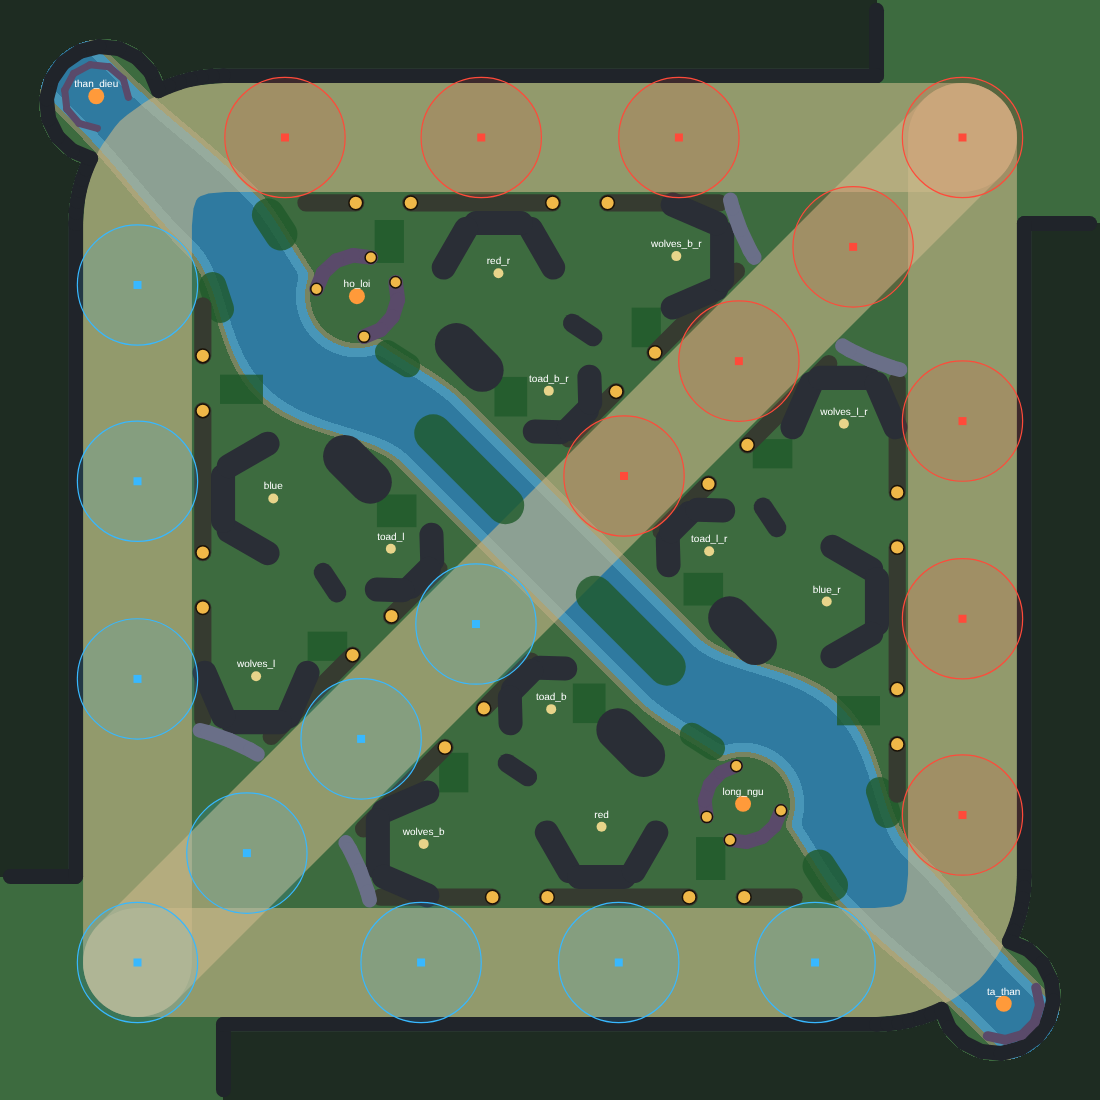
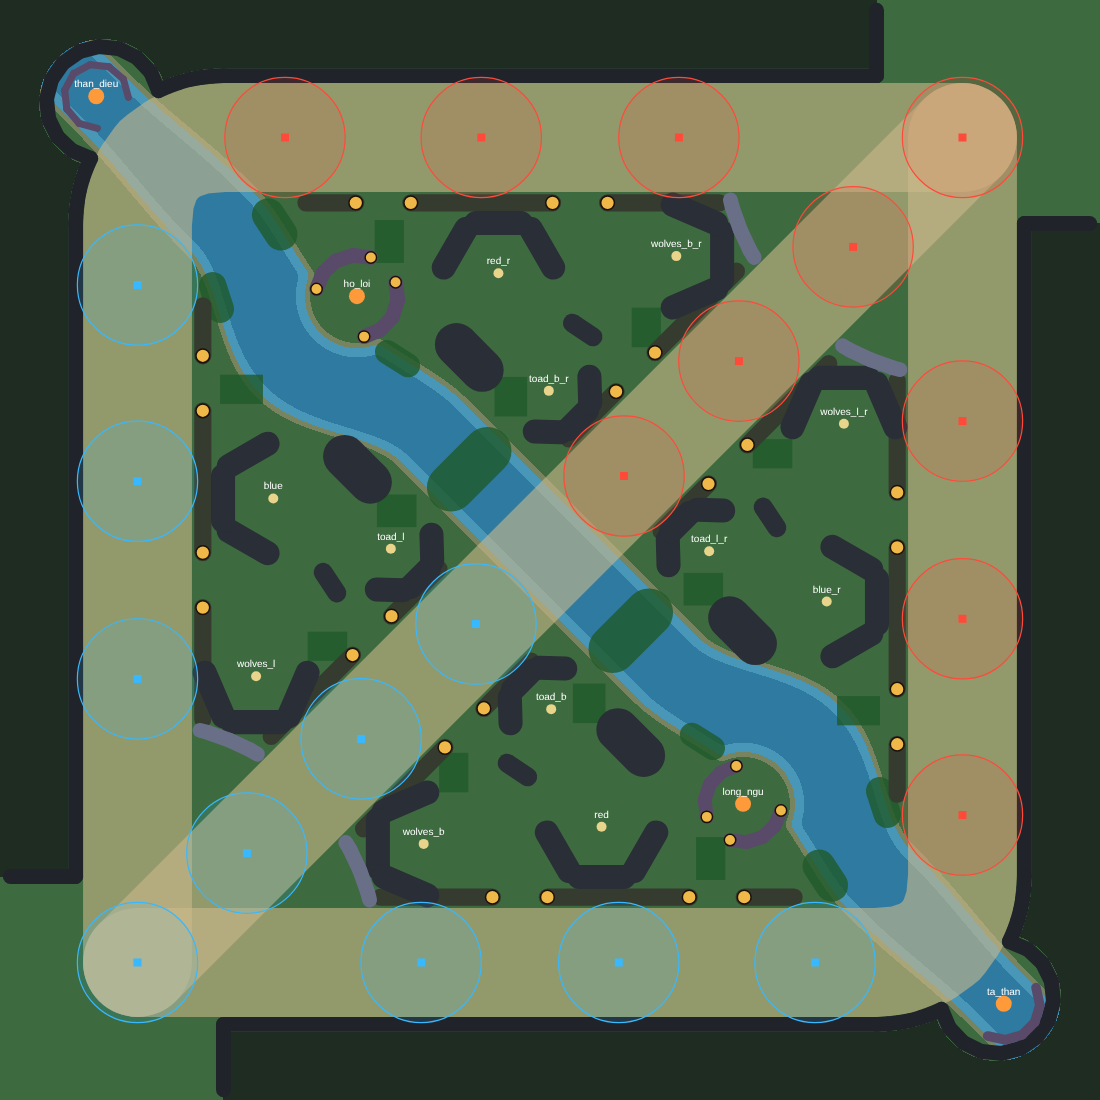
Hai bụi lớn giữa sông nằm ngang lòng sông trở lại (vuông góc dòng chảy), vừa khít bề ngang sông
Chủ dự án: bụi nằm dọc sông (bãi lau sậy dọc dòng, đổi ngày 17/11) phi logic. Trả về hướng của thiết kế gốc — thân vuông góc dòng
chảy, hai bên chỗ đường Giữa băng qua (s = 3200 ∓ 470), ảnh xoay của nhau — nhưng vừa khít bề ngang sông hiện tại: vươn 869 mỗi
phía (nửa lòng sông 750 → lấn mỗi bờ ~120), dày 840 dọc dòng, không đè bụi / đá ở cửa mũi rừng. Ngoài tầm trụ, đối xứng xoay:
t_mapnav đạt; 46/46 bộ t_* + simtest đạt. Cùng NET.version 7 (nhánh chưa phát hành). Tài liệu: 03_BAN_DO A8, DECISIONS, PROGRESS.

Claude-Session: https://claude.ai/code/session_015stg95iU3ggRmQPKg7ymUt

Changed region(s): [[0.3709, 0.3709, 0.4945, 0.4945], [0.5255, 0.5255, 0.6182, 0.6182]]

diff --git a/src/data/maps.js b/src/data/maps.js
@@ -300,11 +300,12 @@ export const ARENA = {
   // tường: danh sách đoạn dày (capsule). Phía Đỏ là ảnh XOAY 180° của phía Xanh (đường, trụ, tường nhà, tường biên đối xứng cả hai cách nên
   // ảnh xoay vẫn khớp); vách hai hang lớn và hai tổ / hang cuối trận khai riêng từng cái.
   walls: { thickness: 110, segs: [...W_BLUE_T, ...W_BLUE_T.map(ptSeg), ...POSTS_BLUE, ...POSTS_BLUE.map(ptSeg), ...BOSSES.flatMap((b) => lairWallSegs({ ...b, x: b.x * K, y: b.y * K }))] },
-  // bụi cỏ (toạ độ thế giới, khai đủ cả hai phía — noMirror): bụi phía Đỏ là ảnh xoay 180° của phía Xanh; hai bãi lau sậy giữa dòng hai bên chỗ
-  // đường Giữa băng qua sông chạy dọc dòng chảy (s 2730 ± 210 và 3670 ± 210, ảnh xoay của nhau), hai bên còn lạch nước trống.
+  // bụi cỏ (toạ độ thế giới, khai đủ cả hai phía — noMirror): bụi phía Đỏ là ảnh xoay 180° của phía Xanh; hai bụi lớn giữa sông hai bên chỗ
+  // đường Giữa băng qua (s = 3200 ∓ 470, ảnh xoay của nhau) nằm NGANG lòng sông — vuông góc dòng chảy, phủ kín bề ngang sông từ bờ này sang bờ
+  // kia (lấn mỗi bờ ~120): chốt núp khi vượt sông giữa bản đồ (thiết kế gốc; 17/11 từng đổi sang dọc dòng, chủ dự án thấy phi logic → trả lại).
   bushes: [
     ...BUSH_BLUE, ...BUSH_BLUE.map(ptBush),
-    ...[-470, 470].map((d) => { const c = 3200 + d, h = 210; return { cap: [(c - h) * K, (c - h) * K, (c + h) * K, (c + h) * K], r: 110 * K, big: true, river: true, noMirror: true }; }),
+    ...[-470, 470].map((d) => { const c = 3200 + d, h = 106; return { cap: [(c - h) * K, (c + h) * K, (c + h) * K, (c - h) * K], r: 140 * K, big: true, river: true, noMirror: true }; }), // nửa thân ngang 150 + bán kính 140 (gốc)
   ],
   vision: true, // sương mù chiến trường + bụi cỏ ẩn (sim/vision.js)
   // quái rừng (đủ hai phía) + mục tiêu lớn; toạ độ thế giới. Trại phía Đỏ là ảnh xoay 180° của phía Xanh.

diff --git a/docs/03_BAN_DO.md b/docs/03_BAN_DO.md
@@ -180,8 +180,9 @@ rừng phía đường Đền (cạnh hang Hổ Lôi).
   cổng rộng ≥ 530 (hẹp nhất là cổng: 660 giữa hai đầu bờ rào).
 
 *Bụi ngoài rừng* (khai phía Xanh, phía Đỏ là ảnh xoay; bám đúng mép nước của sông uốn — `bankBush`): hai bụi mép nước ở cửa sông đầu đường Đền
-(hai bờ); một bụi mép nước canh lối hông hang Long Ngư (giữa sống đá và vách hang); hai **bãi lau sậy giữa dòng** hai bên chỗ đường Giữa băng
-qua sông, chạy dọc dòng chảy (s 2730 ± 210 và 3670 ± 210, bán kính 330 thế giới), hai bên còn lạch nước trống ~420.
+(hai bờ); một bụi mép nước canh lối hông hang Long Ngư (giữa sống đá và vách hang); hai **bụi lớn nằm ngang lòng sông** hai bên chỗ đường Giữa băng qua (tâm trên trục tại s 2730 và 3670, ảnh xoay của nhau): thân vuông góc
+dòng chảy, phủ kín bề ngang sông từ bờ này sang bờ kia, lấn mỗi bờ ~120, dày 840 dọc dòng — chốt núp khi vượt sông giữa bản đồ (18/11: trả về
+nằm ngang như thiết kế gốc; bản 17/11 cho nằm dọc dòng, chủ dự án thấy phi logic).
 
 *Kiểm thử* `tools/t_mapnav.mjs`: vùng chơi liền một khối, không túi đất kín > 12 ô; độ rộng hẹp nhất của tuyến rộng nhất (maximin) tới từng trại /
 hang / cổng ≥ 420; hang trên đất, miệng ra nước, cửa sau về đất, hai lối vào thật; sông liền dòng theo tim dòng uốn, lòng hẹp nhất ≥ 900;

diff --git a/docs/DECISIONS.md b/docs/DECISIONS.md
@@ -1243,3 +1243,7 @@
     94 / 192 = **49% ± 3,6%** (cặp "phe quyết định" Xanh 14 / Đỏ 16): hang hai bờ khác nhau không tạo lệch phe đo được. Lưu ý: tỉ lệ "Xanh
     thắng" của `t_arena_batch` KHÔNG đo phe — ô người chơi phía Xanh trong công cụ đó không mua đồ khởi đầu / chọn phép theo vị trí như 9 tướng
     máy còn lại (`sim/lineup.js`), và đội hình không đổi bên; chỉ dùng nó cho số bot kẹt, mạng hạ, mục tiêu, trại.
+- 2026-11-18: **Hai bụi lớn giữa sông nằm NGANG lòng sông trở lại** (`data/maps.js`). Chủ dự án: bụi nằm dọc sông (bãi lau sậy dọc dòng, đổi ngày
+  17/11) "phi logic". Trả về hướng của thiết kế gốc — thân vuông góc dòng chảy, hai bên chỗ đường Giữa băng qua (s = 3200 ∓ 470) — nhưng cho vừa
+  khít bề ngang sông hiện tại: vươn 869 mỗi phía (nửa lòng sông 750 → lấn mỗi bờ ~120), dày 840 dọc dòng; bản gốc vươn ~1 630 mỗi phía, lấn sâu
+  vào cửa mũi rừng nay đã có bụi riêng. Ngoài tầm trụ ngoài đường Giữa, đối xứng xoay (`t_mapnav` đạt). Cùng `NET.version` 7 (nhánh chưa phát hành).

diff --git a/docs/PROGRESS.md b/docs/PROGRESS.md
@@ -805,3 +805,5 @@ ban đầu) — dựng lại theo cấu trúc chung của thể loại đọc đ
   trước: bot kẹt > 5 giây 0; mạng hạ / trận 21,3; mục tiêu lớn bị hạ / trận **4,42** (bản 17/11: 3,58 — hang hõm bờ có cửa sau từ rừng);
   trại / trận 50,8; 24 / 24 trận kết thúc (tỉ lệ Xanh thắng của công cụ này không đo phe — xem DECISIONS 18/11).
   Trình duyệt: `b_match` 38 / 38; chụp kiểm cảnh hai hang hõm bờ, khúc sông chữ S, đảo đá giữa ngã ba, toàn bản đồ (không lỗi trang).
+- Hai bụi lớn giữa sông trả về **nằm ngang lòng sông** (vuông góc dòng chảy, phủ kín bề ngang sông, lấn mỗi bờ ~120) theo góp ý chủ dự án —
+  bãi lau sậy dọc dòng của bản 17/11 trông phi logic.
